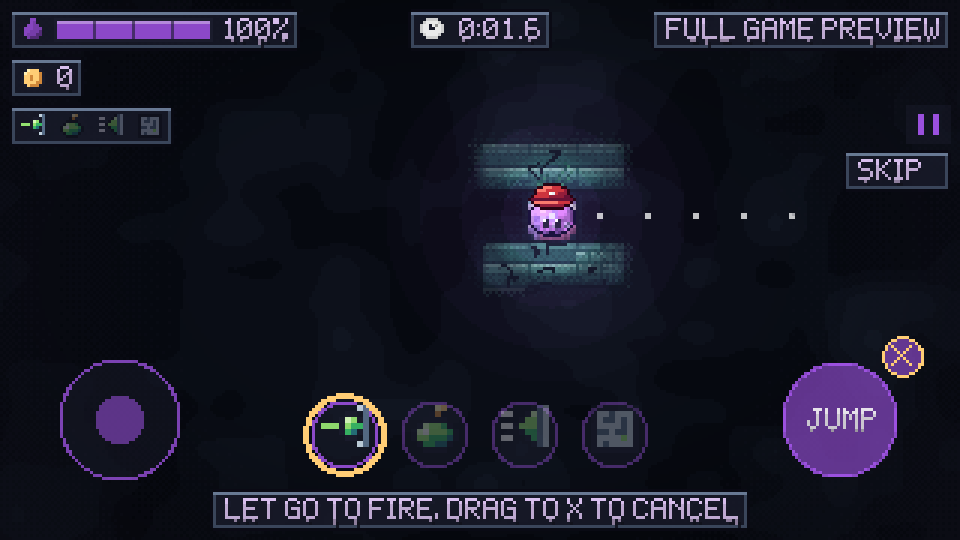
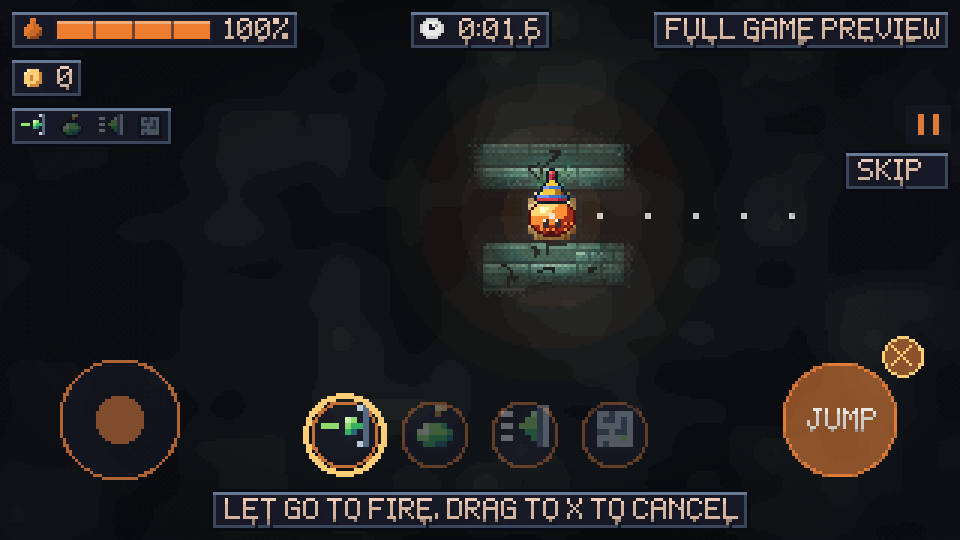
Touch aiming: after an aimed ability's tap the stick only aims (the slime stays) until JUMP fires it or the X cancels it; no drag aiming, its button again does nothing, the tap abilities are dimmed meanwhile; a pause, the run's end or SKIP call the aim off; a test build stamp on the title; tests, sh

diff --git a/docs/demo-plan.md b/docs/demo-plan.md
@@ -83,11 +83,12 @@ refund anything there, so the hand is never above `Demo.coins_total()` (a maxed 
   others don't fire and show dimmed, also between lines); all of them after it ends or SKIP. On touch the ability
   buttons are one row along the bottom (between the joystick and JUMP, over the training line; `TouchControls.ABILITY_ROW_X`), the full game too.
   Touch aiming (owner, 2026-10-23, the full game too): a tap on SLIME SNIPER / GOO GRENADE's button shows the PC's aim
-  guide (letting go fires nothing), the joystick (or a drag off the button) turns it 8 ways, letting go of JUMP fires it
-  (JUMP blinks a gold ring while an aim is up and never leaps then); held, JUMP shows a small X at its top right (above it
-  where a notch cuts in): letting go on the X calls the aim off; the same button again cancels too, another ability's switches.
-  SLIMAKAZE and SLIME SENSE stay tap-to-fire (no aim; a tap calls an aim off first). The tutorial's touch lines:
-  TAP {name}, AIM, PRESS JUMP / AIM, THEN PRESS JUMP / (JUMP held) LET GO TO FIRE, DRAG TO X TO CANCEL. The preview keeps its
+  guide and from then on the joystick only aims (8 ways; the slime stays put) until letting go of JUMP fires it (JUMP
+  blinks a gold ring while an aim is up and never leaps then) or letting go on the X beside a held JUMP calls it off (top
+  right of JUMP, above it where a notch cuts in). A drag never aims; the same button again does nothing; the other aimed
+  one's switches; SLIMAKAZE / SLIME SENSE are dimmed and do nothing meanwhile. A pause, the run's end or the tutorial's
+  SKIP call an aim off. The tutorial's touch lines: TAP {name}, AIM WITH THE STICK / AIM WITH THE STICK, THEN PRESS JUMP /
+  (JUMP held) LET GO TO FIRE, DRAG TO X TO CANCEL. The preview keeps its
   borrowed look over restarts (game.gd `_exit_tree` left the skin override on: a restart showed the player's own skin,
   whose goo trail coloured the map differently; owner bug 2026-10-23).
 - **End screen** (`scenes/demo_end.tscn`, `scripts/ui/demo_end.gd`): after the last demo level's chalice (level 4) the win row is

diff --git a/docs/i18n/pending.md b/docs/i18n/pending.md
@@ -66,3 +66,4 @@ The running list for the later "bring all languages in line" session (`docs/i18n
 | 2026-10-23 | Touch aiming (hold an aimed ability's button, drag, let go) and its tutorial lines | added: `coach.line_touch_aim` (HOLD {name}, AIM, RELEASE, max 192px), `coach.aim_touch` (DRAG TO AIM, LET GO TO FIRE, max 192px) | `./tools/i18n_capture.sh --gate`: PASS (English strict) |
 | 2026-10-23 | Touch aiming fires with JUMP (owner): tap the button, aim, press JUMP; JUMP blinks gold while aiming | changed: `coach.line_touch_aim` (TAP {name}, AIM, PRESS {jump}), `coach.aim_touch` (AIM, THEN PRESS {jump}); {jump} = `touch.jump` (reused) | `./tools/i18n_capture.sh --gate`: PASS (English strict) |
 | 2026-10-23 | Touch aiming: JUMP fires on release, the X beside a held JUMP cancels (owner) | added: `coach.aim_cancel` (LET GO TO FIRE, DRAG TO X TO CANCEL, max 192px) | `./tools/i18n_capture.sh --gate`: PASS (English strict) |
+| 2026-10-23 | Touch aiming: the stick is the only aim, the X the only cancel (owner) | changed: `coach.line_touch_aim` (TAP {name}, AIM WITH THE STICK), `coach.aim_touch` (AIM WITH THE STICK, THEN PRESS {jump}); a test build stamp on the title (`# i18n: ignore`) | `./tools/i18n_capture.sh --gate`: PASS (English strict) |
